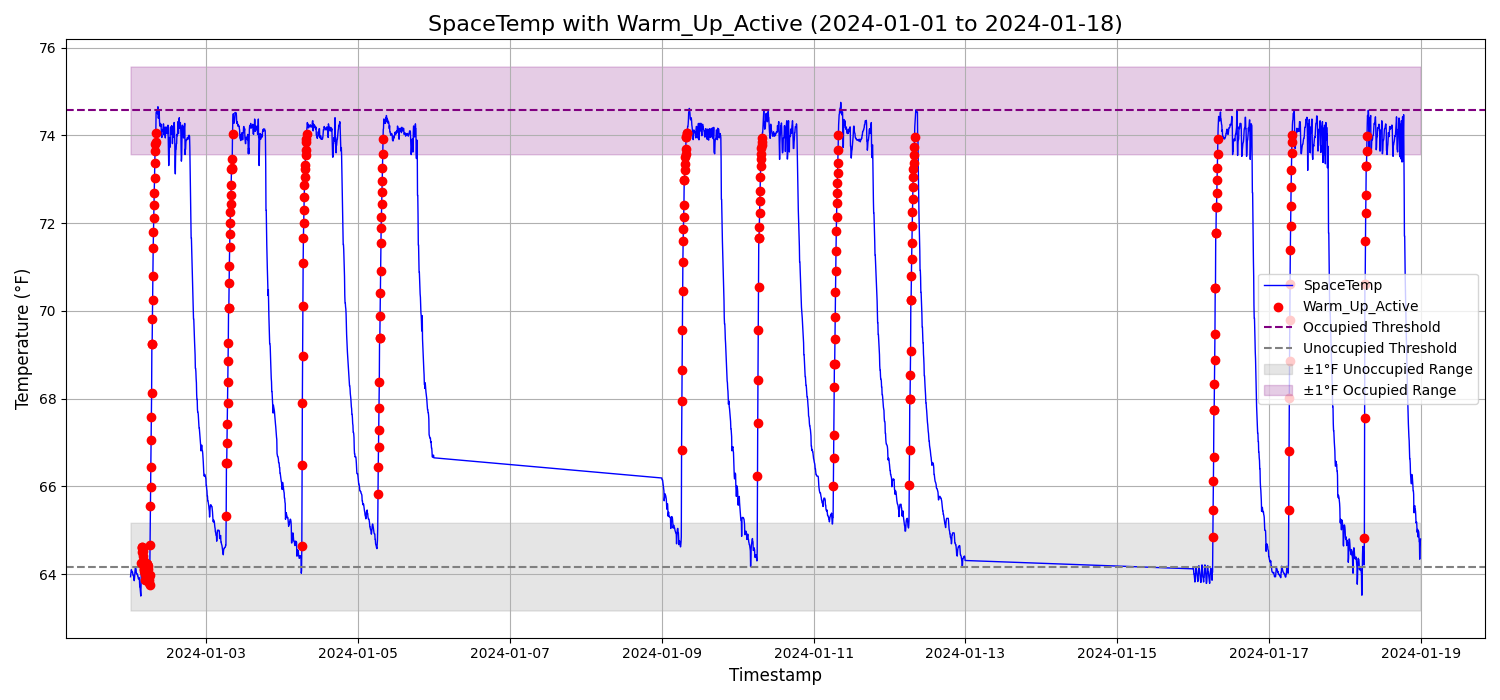
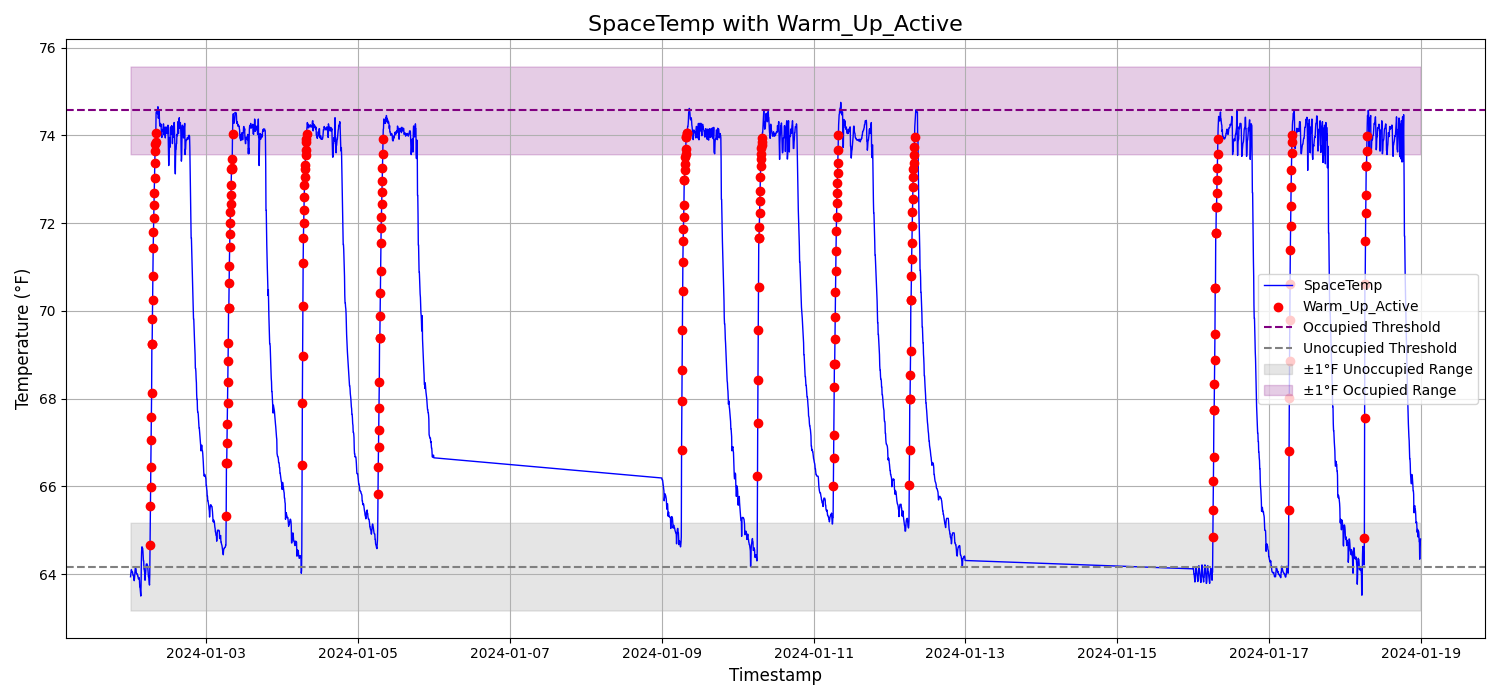
RecoveryCalc Code finalized looks good enough

Changed region(s): [[0.276, 0.0, 0.736, 0.06], [0.092, 0.78, 0.1227, 0.84]]

diff --git a/OptimalStartStop/RecoveryTimeCalcs/recov_time_calc.py b/OptimalStartStop/RecoveryTimeCalcs/recov_time_calc.py
@@ -2,67 +2,63 @@ import os
 import pandas as pd
 import matplotlib.pyplot as plt
 
-# Days to exclude from calculations
-# when building is unoccupied
+# Exclude days of the week when the building is unoccupied control
 EXCLUDE_DAYTYPES = ["Saturday", "Sunday", "Monday"]
 
-# Degrees F closest to occupied setpoint or "occupied_threshold" calc
-# to know when warmup is completed and stop calculating data
-OCC_ZONE_TEMP_PROX_THRES = 0.5
+# Threshold for rule based logic to start or stop when temperature
+# is within this parameter of the calculated unocc or occ zone
+# temperature setpoint
+ZONE_TEMP_PROX_THRES = 0.5 # °F
 
-# For each time step its a delta temp in Degrees F to flag
-# when the heating system started based on sharp rises
-# from the "unoccupied_threshold" calc
-STEEP_INCREASE_THRES = 0.5
+# Steep increases in temp when the heat turns on
+# Calculated from a delta temp for each time step
+STEEP_INCREASE_THRES = 0.5 # °F
 
-# Rolling window size for ignoring outliers
+# Attempt to rule out outliers or false calculations
 ROLLING_WINDOW_SIZE = 3
 
-# Minutes per time step in dataset
+# Dataset time interval
 DATASET_MIN_PER_TIME_STEP = 5
+
+# Directory to save plots and CSV data
 OUTPUT_DIR = "Analysis_Results"
 
-
-def analyze_warm_up(data, start_date, end_date, output_subdir):
-    os.makedirs(output_subdir, exist_ok=True)
-    subset_data = data.loc[start_date:end_date].copy()  # Use .copy() to ensure it's a new DataFrame
-
-    # Exclude specified day types
-    subset_data.loc[:, "day_of_week"] = subset_data.index.day_name()  # Explicit assignment to avoid warnings
+def wrangle_data(data, start_date, end_date):
+    subset_data = data.loc[start_date:end_date].copy()
+    subset_data.loc[:, "day_of_week"] = subset_data.index.day_name()
     subset_data = subset_data[~subset_data["day_of_week"].isin(EXCLUDE_DAYTYPES)]
-
-    # Calculate daily thresholds
     daily_stats = subset_data["SpaceTemp"].resample("D").agg(["min", "max", "mean"])
+
+    print()
+    print("Calculated Zone Temperature Setpoints...")
     occupied_threshold = daily_stats["max"].mean()
+    print(f"occupied_threshold: {occupied_threshold:.2f}") 
     unoccupied_threshold = daily_stats["min"].mean()
+    print(f"unoccupied_threshold: {unoccupied_threshold:.2f}") 
 
-    print(
-        f"Occupied threshold: {occupied_threshold} \n",
-        f"Unoccupied threshold: {unoccupied_threshold} \n",
-    )
-
-    # Identify steep increases and proximity to setpoint
+    # Start of the heating increase
     subset_data.loc[:, "temp_steep_increase"] = (
-        subset_data["SpaceTemp"].diff() > STEEP_INCREASE_THRES
+        (subset_data["SpaceTemp"].diff() > STEEP_INCREASE_THRES)
+        &  (subset_data["SpaceTemp"] >= (unoccupied_threshold + ZONE_TEMP_PROX_THRES))
     )
+    # Stop of the heating increase
     subset_data.loc[:, "near_occupied_threshold"] = (
-        (subset_data["SpaceTemp"] >= (occupied_threshold - OCC_ZONE_TEMP_PROX_THRES))
-        & (subset_data["SpaceTemp"] <= (occupied_threshold + OCC_ZONE_TEMP_PROX_THRES))
+        (subset_data["SpaceTemp"] >= (occupied_threshold - ZONE_TEMP_PROX_THRES))
+        & (subset_data["SpaceTemp"] <= (occupied_threshold + ZONE_TEMP_PROX_THRES))
     )
 
-    # Warm-up phase detection
     subset_data.loc[:, "in_warm_up_phase"] = False
     warm_up_active = False
-    for i in range(len(subset_data)):
-        if subset_data["temp_steep_increase"].iloc[i]:
+    for row in subset_data.itertuples():
+        if row.temp_steep_increase:
             warm_up_active = True
-        if subset_data["near_occupied_threshold"].iloc[i]:
+        if row.near_occupied_threshold:
             warm_up_active = False
-        subset_data.loc[subset_data.index[i], "in_warm_up_phase"] = warm_up_active
+        subset_data.loc[row.Index, "in_warm_up_phase"] = warm_up_active
 
     subset_data["Warm_Up_Active"] = subset_data["in_warm_up_phase"].astype(int)
 
-    # Smoothing Warm-Up Active
+    # attempt to remove false data
     subset_data["Warm_Up_Active_Smoothed"] = (
         subset_data["Warm_Up_Active"]
         .rolling(window=ROLLING_WINDOW_SIZE, center=True)
@@ -74,31 +70,18 @@ def analyze_warm_up(data, start_date, end_date, output_subdir):
     ).astype(int)
     subset_data.drop(columns=["Warm_Up_Active_Smoothed"], inplace=True)
 
-    # Calculate daily warm-up duration
-    daily_warm_up_duration = subset_data["Warm_Up_Active"].resample("D").sum()
-    daily_warm_up_duration_minutes = daily_warm_up_duration * DATASET_MIN_PER_TIME_STEP
+    return subset_data, occupied_threshold, unoccupied_threshold
 
-    # Extract 4AM SpaceTemp and OaTemp
-    daily_4am_values = subset_data.between_time("04:00", "04:00").resample("D").first()
-    results = pd.DataFrame(
-        {
-            "Warm_Up_Duration (minutes)": daily_warm_up_duration_minutes,
-            "4AM SpaceTemp": daily_4am_values["SpaceTemp"],
-            "4AM OaTemp": daily_4am_values["OaTemp"],
-        }
-    )
 
-    # Filter out rows with zero or missing values
-    results = results.dropna().query("`Warm_Up_Duration (minutes)` > 0")
-
-    # Save results to CSV
-    csv_output_path = os.path.join(output_subdir, "daily_results.csv")
+def save_results_to_csv(results, output_dir):
+    os.makedirs(output_dir, exist_ok=True)
+    csv_output_path = os.path.join(output_dir, "daily_results.csv")
     results.to_csv(csv_output_path)
     print(f"Results saved to {csv_output_path}")
 
-    # Save plots
-    # Line Plot
-    line_plot_path = os.path.join(output_subdir, "SpaceTemp_Plot.png")
+
+def plot_line_chart(subset_data, occupied_threshold, unoccupied_threshold, output_dir):
+    line_plot_path = os.path.join(output_dir, "SpaceTemp_Plot.png")
     plt.figure(figsize=(15, 7))
     plt.plot(
         subset_data.index,
@@ -136,31 +119,105 @@ def analyze_warm_up(data, start_date, end_date, output_subdir):
         alpha=0.2,
         label="±1°F Occupied Range",
     )
-    plt.title(
-        f"SpaceTemp with Warm_Up_Active ({start_date} to {end_date})", fontsize=16
-    )
+    plt.title("SpaceTemp with Warm_Up_Active", fontsize=16)
     plt.xlabel("Timestamp", fontsize=12)
     plt.ylabel("Temperature (°F)", fontsize=12)
     plt.legend()
     plt.grid(True)
     plt.tight_layout()
     plt.savefig(line_plot_path)
+    plt.close()
     print(f"Line plot saved to {line_plot_path}")
 
-    return results
+def plot_bar_chart(results, output_dir):
+    bar_plot_path = os.path.join(output_dir, "Warm_Up_Bar_Plot.png")
+    fig, ax1 = plt.subplots(figsize=(15, 7))
+
+    ax1.bar(
+        results.index,
+        results["Warm_Up_Duration (minutes)"],
+        color="skyblue",
+        label="Warm-Up Duration (minutes)",
+        alpha=0.8,
+    )
+    ax1.set_ylabel("Warm-Up Duration (minutes)", fontsize=12)
+    ax1.set_xlabel("Date", fontsize=12)
+    ax1.set_title("Warm-Up Duration with 4AM Temperatures", fontsize=16)
+    ax1.tick_params(axis="x", rotation=45)
+    ax1.grid(True)
+
+    ax2 = ax1.twinx()
+    ax2.scatter(
+        results.index,
+        results["4AM OaTemp"],
+        color="red",
+        label="4AM OaTemp",
+        zorder=5,
+    )
+    ax2.scatter(
+        results.index,
+        results["4AM SpaceTemp"],
+        color="green",
+        label="4AM SpaceTemp",
+        zorder=5,
+    )
+    ax2.set_ylabel("Temperature (°F)", fontsize=12)
+
+    fig.legend(loc="upper right", bbox_to_anchor=(1, 0.95), bbox_transform=ax1.transAxes)
+    plt.tight_layout()
+    plt.savefig(bar_plot_path)
+    plt.close()
+    print(f"Bar plot with additional data saved to {bar_plot_path}")
+
+def plot_temperature_distribution(subset_data, output_dir, label):
+    # Simple Histogram Plot
+    simple_hist_path = os.path.join(output_dir, f"Histogram.png")
+    plt.figure(figsize=(12, 6))
+    subset_data["SpaceTemp"].plot(kind="hist", bins=30, alpha=0.8, color="blue")
+    plt.title(f"Temperature Histogram ({label})", fontsize=16)
+    plt.xlabel("Space Temperature (°F)", fontsize=12)
+    plt.ylabel("Frequency", fontsize=12)
+    plt.grid(True)
+    plt.tight_layout()
+    plt.savefig(simple_hist_path)
+    plt.close()
+    print(f"Simple histogram plot saved to {simple_hist_path}")
+
+def analyze_warm_up(data, start_date, end_date, output_subdir):
+    subset_data, occupied_threshold, unoccupied_threshold = wrangle_data(
+        data, start_date, end_date
+    )
+
+    daily_warm_up_duration = subset_data["Warm_Up_Active"].resample("D").sum()
+    daily_warm_up_duration_minutes = daily_warm_up_duration * DATASET_MIN_PER_TIME_STEP
+
+    daily_4am_values = subset_data.between_time("04:00", "04:00").resample("D").first()
+    results = pd.DataFrame(
+        {
+            "Warm_Up_Duration (minutes)": daily_warm_up_duration_minutes,
+            "4AM SpaceTemp": daily_4am_values["SpaceTemp"],
+            "4AM OaTemp": daily_4am_values["OaTemp"],
+        }
+    ).dropna().query("`Warm_Up_Duration (minutes)` > 0")
+
+    print()
+    print(results)
+    print()
+
+    save_results_to_csv(results, output_subdir)
+    plot_line_chart(subset_data, occupied_threshold, unoccupied_threshold, output_subdir)
+    plot_bar_chart(results, output_subdir)
+    plot_temperature_distribution(subset_data, output_subdir, f"{start_date}_to_{end_date}")
 
 
-
-# Main script
 if __name__ == "__main__":
-    # Load dataset
     cold_snap_data = pd.read_csv("Jan_data.csv")
     cold_snap_data["timestamp"] = pd.to_datetime(cold_snap_data["timestamp"])
     cold_snap_data.set_index("timestamp", inplace=True)
 
-    # Perform analyses for different time ranges
     time_ranges = {
-        "Four_Days": ("2024-01-14", "2024-01-18"),
+        "Four_Days_V1": ("2024-01-14", "2024-01-18"),
+        "Four_Days_V2": ("2024-01-01", "2024-01-04"),
         "One_week": ("2024-01-10", "2024-01-18"),
         "Two_weeks": ("2024-01-01", "2024-01-18"),
     }
